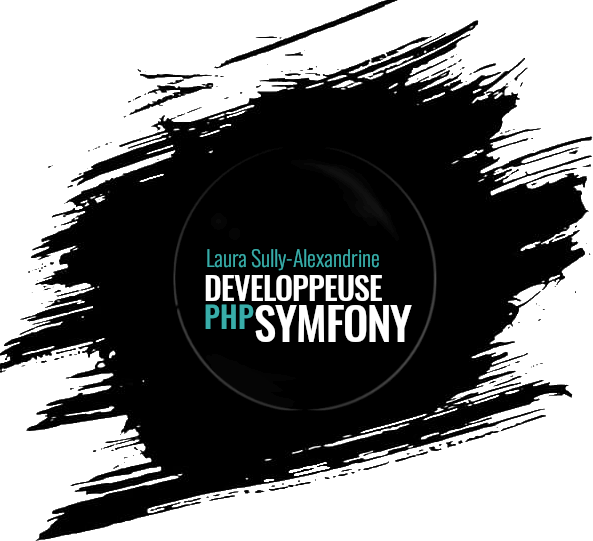
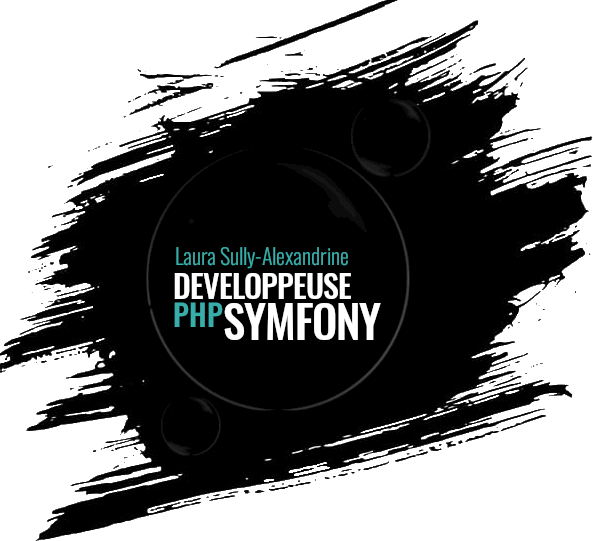
update home and add picture bubbles post

diff --git a/public/css/style.css b/public/css/style.css
@@ -53,18 +53,9 @@ background-color: #ffffff !important;
     background-color: #a775e8 !important;
 }
 
-/* .purple {
-    background-color: #f6b93b !important;
-}
-.purple:hover {
-    background-color: #fad390 !important;
-} */
-
 .marker {
     color: #38ada9 
 }
-
-
 
 /*------ NAVBAR FOOTER ------*/
 
